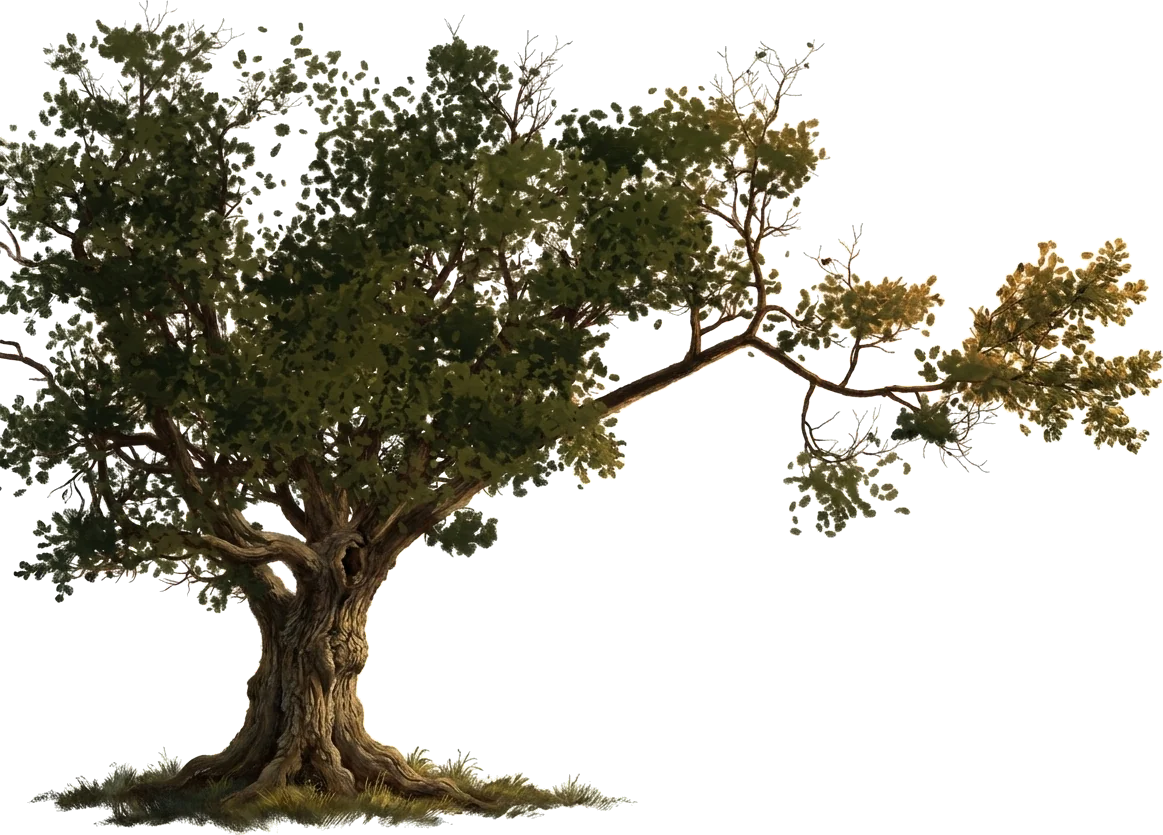
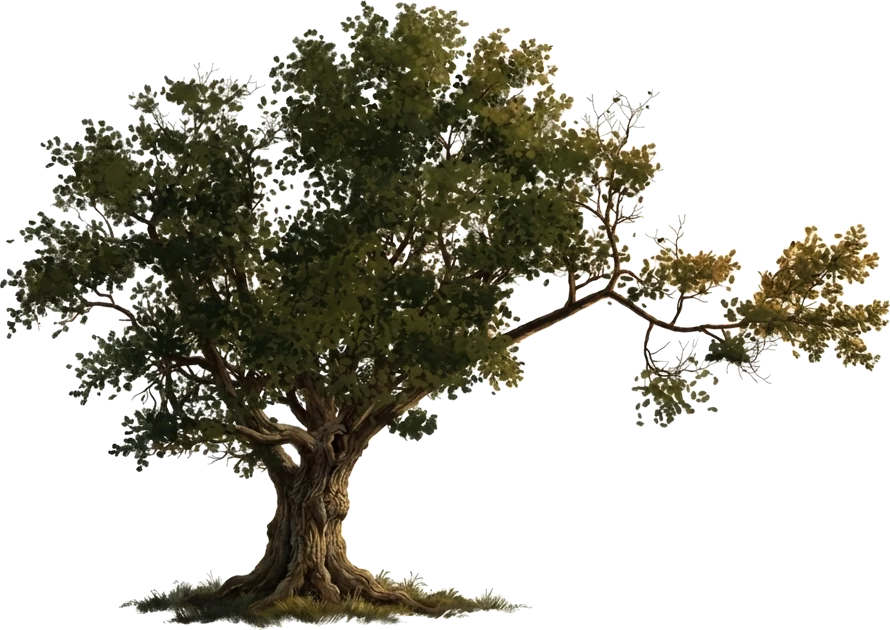
Level 3's oak painted whole and toned toward a silhouette (build 165)
Claude-Session: https://claude.ai/code/session_017HrTSF6HHp7YV8LH8vZT5B

diff --git a/hill.js b/hill.js
@@ -169,16 +169,17 @@ const HL = (() => {
   // trunk's middle, ground = the row that stands on the field's edge (the grass at its foot goes a little below, behind
   // the road), tw = sunlit leaves that twinkle. It is toned a little darker here to sit in the game's quiet tones,
   // and has an all-dark copy for when the sky darkens. Until it has loaded, the code-drawn oak (bakeOak) stands in.
-  const OAK_META = { w: 1163, h: 835, ax: 304.0, ground: 800, k: .56, tw: [[1083,304],[1114,421],[1016,272],[677,301],[1047,398],[1058,259],[600,443],[1073,346],[837,293],[737,302],[1082,331],[1021,313],[1121,411],[1001,363],[944,397],[1144,283],[884,291],[1044,244],[968,340],[715,360],[767,135],[1139,282],[1090,338],[1092,311],[316,73],[1113,286],[1119,412],[1112,278],[888,286],[1130,286],[921,291],[925,397],[1044,368],[783,171],[1111,306],[828,277],[1115,429],[1026,406],[813,125],[1087,276],[603,445],[1073,288],[654,196],[1056,362],[1113,421],[915,320],[844,322],[916,322],[753,332],[907,300],[612,453],[969,340],[996,294],[1106,251],[925,331],[579,455],[1085,257],[979,312],[1108,288],[783,140],[1122,438],[963,400],[943,392],[1055,270],[921,399],[584,479],[934,280],[1125,266],[920,316],[1053,363],[1088,396],[1040,261],[827,279],[956,354],[865,283],[512,194],[608,466],[854,304],[1054,405],[909,307],[1068,278],[888,327],[1013,395],[1044,248],[1113,420],[1041,252],[724,158],[454,372],[1004,405],[1077,270],[933,315],[1112,297],[1050,256],[1023,334],[1090,264],[1063,341],[1032,396],[1067,336],[1024,314],[1069,273],[701,213],[584,207],[1146,373],[1047,248],[614,311],[817,134],[684,111],[1103,309],[1094,268],[542,266],[822,152],[1103,303],[969,362],[1040,248],[1026,362],[1073,357],[1111,314],[1115,290],[990,348],[1119,240],[851,331],[1058,278],[611,453],[1096,372],[982,356],[587,449],[725,309],[885,285],[1112,428],[883,282],[1064,356],[557,153],[1092,390],[529,196],[724,259],[923,332],[726,306],[976,336],[508,245],[242,231],[1109,363],[750,157],[967,388],[846,319],[909,322],[661,116],[912,317],[628,403],[881,307],[1118,239],[515,275],[1095,428],[632,401],[1082,348],[885,325],[917,306],[748,121],[468,499],[886,326],[932,276],[1020,411],[147,166],[854,290],[821,155],[894,306],[453,195],[759,107],[891,319],[1097,260],[795,147],[754,331],[1137,303],[731,351],[1042,261],[878,286],[828,334],[1131,357],[736,119],[967,341],[723,278],[886,302],[869,291],[796,146],[1049,258],[821,290],[1065,425],[1017,288],[1097,279],[1148,378],[653,290],[965,355],[463,498],[1112,257],[1050,388],[1116,289],[1026,363],[1093,404],[1156,354],[725,259],[1041,249],[1109,277],[1105,300],[762,134],[917,300],[1009,392],[1053,346],[1080,322],[1114,319],[805,293],[820,313],[494,249],[1120,414],[1088,369],[913,294],[980,353],[764,352],[1138,378],[1078,340],[1079,358],[786,129],[876,332],[786,142],[1076,394],[583,436],[1157,384],[891,297],[1020,306],[774,131],[896,285],[995,359],[1136,288],[520,236],[770,346],[1156,365],[1101,397],[1111,292],[1106,316],[607,456],[737,347],[680,90],[853,457],[883,281],[770,137],[1105,252],[1113,310],[1059,271],[1141,438],[910,318],[616,411],[976,314],[604,450],[871,294],[751,114],[902,296],[885,291],[753,120],[1026,432],[541,219],[1113,371],[802,123],[860,475],[1113,272],[607,458],[1063,270],[1122,440],[890,283],[1123,374],[885,284],[1115,320],[1082,277],[806,147],[969,350],[968,361],[1102,320],[710,124],[1120,309],[596,430],[737,128],[1082,325],[728,262],[478,281],[480,233],[608,458],[877,327],[578,451],[1131,432],[583,374],[969,388],[924,294],[723,293],[996,360],[991,399],[1064,357],[595,428],[1120,256],[1117,290],[877,331],[999,352],[621,467],[931,316],[890,286],[888,499],[586,363],[1042,335],[685,178],[1058,269],[572,251],[887,291],[1014,280],[1069,402],[663,270],[574,437],[683,95],[783,175],[1114,254],[729,122],[821,150],[1122,357],[965,350],[1016,360]] };
+  const OAK_META = { w: 890, h: 630, ax: 306.5, ground: 602, k: 0.781, tw: [[787,253],[480,364],[694,265],[852,350],[568,103],[862,274],[687,256],[839,333],[552,186],[441,78],[565,95],[808,234],[608,265],[648,156],[864,274],[858,345],[498,332],[434,23],[542,71],[522,107],[548,142],[795,261],[794,258],[562,134],[835,287],[855,251],[853,257],[794,278],[836,236],[439,11],[869,256],[884,303],[543,78],[724,272],[836,235],[799,242],[555,113],[554,107],[527,49],[788,308],[544,145],[859,260],[722,278],[548,49],[665,255],[492,370],[449,32],[562,95],[696,259],[537,112],[449,53],[679,288],[835,235],[826,324],[723,267],[506,356],[830,298],[447,59],[801,316],[854,256],[855,260],[833,297],[718,258],[806,288],[875,306],[727,335],[546,81],[854,340],[789,250],[854,312],[501,47],[654,145],[793,252],[549,142],[664,251],[613,284],[397,27],[814,328],[633,158],[570,101],[538,95],[867,265],[879,329],[731,252],[683,262],[603,259],[599,158],[682,252],[785,307],[536,59],[839,249],[537,53],[827,332],[720,259],[496,34],[437,274],[551,91],[632,150],[461,25],[825,308],[694,266],[872,258],[725,265],[873,311],[704,370],[579,201],[866,327],[504,354],[646,313],[717,279],[494,386],[811,229],[508,50],[540,49],[518,99],[857,247],[831,334],[446,80],[815,228],[253,265],[536,112],[547,48],[806,340],[504,94],[688,290],[862,311],[447,225],[489,334],[860,342],[877,358],[855,311],[782,336],[442,75],[853,309],[533,77],[498,389],[854,341],[496,389],[787,309],[503,44],[539,99],[803,310],[670,276],[780,267],[672,262],[861,228],[539,92],[851,267],[542,48],[804,244],[724,264],[551,72],[791,247],[851,261],[861,280],[553,124],[652,176],[884,321],[551,71],[715,274],[510,381],[542,125],[840,330],[817,341],[788,283],[507,362],[372,41],[784,308],[519,53],[813,312],[729,258],[873,263],[593,133],[821,239],[771,278],[666,265],[497,49],[866,244],[818,245],[856,342],[479,44],[663,251],[697,256],[815,235],[525,106],[440,78],[507,29],[556,125],[462,39],[855,231],[550,129],[539,63],[783,339],[541,62],[841,294],[671,281],[577,186],[705,373],[773,279],[858,261],[840,285],[511,120],[538,77],[543,46],[798,253],[504,51],[824,339],[261,299],[413,263],[858,313],[860,226],[794,260],[758,298],[462,24],[616,145],[517,365],[648,266],[873,318],[496,35],[432,8],[588,174],[859,225],[864,235],[568,105],[514,110],[790,266],[834,296],[543,122],[563,137],[560,114],[856,259],[541,191],[719,257],[662,252],[519,98],[840,245],[527,67],[797,247],[704,284],[495,380],[787,314],[432,50],[759,299],[796,247],[568,104],[556,68],[692,286],[560,97],[515,121],[864,262],[843,336],[862,347],[827,328],[589,136],[434,68],[589,304],[848,278],[840,290],[651,169],[853,310],[761,332],[442,13],[881,311],[703,282],[627,152],[520,107],[446,78],[598,210],[858,262],[756,305],[862,319],[847,334],[430,19],[514,378],[568,133],[855,258],[495,45],[513,108],[559,108],[730,267],[858,307],[702,267],[461,40],[516,365],[876,328],[762,278],[548,96],[858,280],[629,156],[440,272],[794,274],[836,289],[436,80],[514,377],[659,273],[542,78],[601,157],[457,31],[789,251],[861,272]] };
+  // OAK_SIL: how far the painting is pulled toward one dark tone (owner, build 165: "Tone it down to slightly more silhouette"): 0 = the painting, 1 = a flat silhouette
+  const OAK_SIL = .42;
   let OAKP = null, oakLoading = null;
   function loadOak() {
     if (!oakLoading) oakLoading = loadImg('oak-leaf.webp').then(im => { if (!im) return;
-      // (the painting ran off its paper on the left: that cut edge is melted away; the pale grass at its foot is toned to the field)
+      // (the pale grass at its foot is toned to the field)
       const mkc = fill => { const c = mk(im.width, im.height), k = c.getContext('2d'); k.drawImage(im, 0, 0);
         k.globalCompositeOperation = 'source-atop'; { const g = k.createLinearGradient(0, im.height - 90, 0, im.height); g.addColorStop(0, 'rgba(58,62,40,0)'); g.addColorStop(.5, 'rgba(58,62,40,.7)'); g.addColorStop(1, 'rgba(50,54,36,.9)'); k.fillStyle = g; k.fillRect(0, im.height - 90, im.width, 90); }
-        k.globalCompositeOperation = 'destination-out'; { const g = k.createLinearGradient(0, 0, 90, 0); g.addColorStop(0, 'rgba(0,0,0,1)'); g.addColorStop(1, 'rgba(0,0,0,0)'); k.fillStyle = g; k.fillRect(0, 0, 90, im.height * .8); }
         k.globalCompositeOperation = 'source-over'; fill(k); return c; };
-      OAKP = { c: mkc(k => { const keep = mk(im.width, im.height); keep.getContext('2d').drawImage(k.canvas, 0, 0); k.globalCompositeOperation = 'multiply'; k.fillStyle = 'rgb(188,180,170)'; k.fillRect(0, 0, im.width, im.height); k.globalCompositeOperation = 'destination-in'; k.drawImage(keep, 0, 0); }),
+      OAKP = { c: mkc(k => { const keep = mk(im.width, im.height); keep.getContext('2d').drawImage(k.canvas, 0, 0); k.globalCompositeOperation = 'multiply'; k.fillStyle = 'rgb(172,166,156)'; k.fillRect(0, 0, im.width, im.height); k.globalCompositeOperation = 'source-over'; k.globalAlpha = OAK_SIL; k.fillStyle = 'rgb(30,34,29)'; k.fillRect(0, 0, im.width, im.height); k.globalAlpha = 1; k.globalCompositeOperation = 'destination-in'; k.drawImage(keep, 0, 0); }),
                d: mkc(k => { k.globalCompositeOperation = 'source-in'; k.fillStyle = 'rgb(20,20,26)'; k.fillRect(0, 0, im.width, im.height); }) }; }).catch(() => {});
     return oakLoading;
   }

diff --git a/index.html b/index.html
@@ -83,7 +83,7 @@ body.portrait #rot{display:block}
     <button class="btn" id="again">Walk again</button>
   </div>
   <button id="snd" aria-label="Sound on or off">♪</button>
-  <div id="build">build 164 · Nov 16 2026</div>
+  <div id="build">build 165 · Nov 16 2026</div>
 </div></div>
 <div id="rot">Turn your phone sideways for a bigger picture</div>
 <script>
@@ -1074,7 +1074,7 @@ const runNow = () => G.ears || !RUNP.ready ? [RUN, RUN_META] : [RUNP, RUNP_META]
 function coverEars() { if (G.ears) return; if (P.run) poseChange(8, true); G.ears = true; }
 const CHR = [], PLI = [], OBS = [], EVA = [], STD = [], RUN = [], CHR_K = .52, RUN_STEP = RUN_META.vpx * CHR_K, RUNV = RUN_STEP * .4,   // the run at its video's own speed (24 frames a second)
    CHR_STEP = CHR_META.vpx * CHR_K, PLI_STEP = PLI_META.vpx * CHR_K, OBS_STEP = OBS_META.vpx * CHR_K;
-const PACK_V = 23;                          // bump when the .pack files change, so phones fetch the new ones
+const PACK_V = 24;                          // bump when the .pack files change, so phones fetch the new ones
 // a .pack file: 4 bytes = how many frames, 4 bytes per frame = its length, then the WebP frames end to end
 async function loadPack(name, into) {
   const res = await fetch('assets/' + name + '.pack?v=' + PACK_V); if (!res.ok) throw new Error('no ' + name);      // a missing pack is left out
@@ -2255,6 +2255,6 @@ document.getElementById('on2').onclick = () => SL.on ? go3() : go2();
 })();
 </script>
 <script src="slough.js?v=164"></script>
-<script src="hill.js?v=164"></script>
+<script src="hill.js?v=165"></script>
 </body>
 </html>

diff --git a/story-lab.html b/story-lab.html
@@ -3,4 +3,4 @@
 <title>Pilgrim's Progress</title>
 <!-- The game moved to the main page in build 119. This page only sends old links (and Home Screen icons) on to it. -->
 <script>location.replace('./' + location.search + location.hash);</script>
-<p><a href="./">Pilgrim's Progress</a> <span id="build">build 164 · Nov 16 2026</span></p>
+<p><a href="./">Pilgrim's Progress</a> <span id="build">build 165 · Nov 16 2026</span></p>

diff --git a/CLAUDE.md b/CLAUDE.md
@@ -32,7 +32,7 @@ A gentle side-scrolling story walk for kids ages 7 to 10, following Bunyan's *Th
 ## Working with the owner
 
 - **Repo `Twhidbey/pilgrims-progress`, branch `main`. Pushing `main` publishes the game** (GitHub Pages, https://twhidbey.github.io/pilgrims-progress/, 1 to 2 minutes). Commit and push after every change, then tell the owner it is live; a phone may show an old copy, so suggest `?v=N`.
-- **Build stamp** (`id="build"`, bottom right): `build N · date` in `index.html` and `story-lab.html`. Bump N on **every** push that changes the game, so one number means one push. Keep the form `id="build">... build N` (the page's self-update reads it). **Currently build 164.** The two script tags at the end of `index.html` carry `?v=N` (`slough.js?v=`, `hill.js?v=`): set them to the build that last changed each file, so phones fetch the new copy. Several chats push at once: `git fetch` and rebase on `origin/main` just before pushing, and take the next number after whatever is there.
+- **Build stamp** (`id="build"`, bottom right): `build N · date` in `index.html` and `story-lab.html`. Bump N on **every** push that changes the game, so one number means one push. Keep the form `id="build">... build N` (the page's self-update reads it). **Currently build 165.** The two script tags at the end of `index.html` carry `?v=N` (`slough.js?v=`, `hill.js?v=`): set them to the build that last changed each file, so phones fetch the new copy. Several chats push at once: `git fetch` and rebase on `origin/main` just before pushing, and take the next number after whatever is there.
 - **SPEND AS LITTLE AS POSSIBLE (owner, build 106: "can you minimize spending - it's been pretty expensive for me last few days").** Video about 56 cents a try; a picture about 15 cents (`gemini-3-pro-image`); voice about a cent a line. **Before any paid call: say the cost and wait for a yes; keep the running total in `HANDOFF.md`.** Ways to save, in order: (1) do it in code first (breathing, sway, cloth and hair movement, small moves by warping a still, mirroring, tinting, reusing a figure); (2) build first and last frames from frames we already have; (3) draft pictures on `gemini-2.5-flash-image` (about a third of the price), the pro model only for the final; (4) show the owner a still before any video; (5) get two clips from one video (play backwards or back and forth); (6) write video prompts that pass the safety filter first time (no "sunk", "drowning", "thrashing", "desperate", "frightened"; say "thick sticky mud", "heaves", "cross and grumbling"); (7) a shorter video if the API offers one cheaper (not yet checked).
 - **Keep `CLAUDE.md` and `HANDOFF.md` updated after every change.** The repo is public: no names, emails or other personal details in notes, code or commits.
 - **Players:** kids 7 to 10, mostly on an iPhone. Gentle: no lives, no game over, read-aloud words, short simple sentences.
@@ -161,7 +161,7 @@ Plus a syntax check of `index.html`'s script, `slough.js` and `hill.js` (`new Fu
 
 **The wicket-gate, after Rembrandt (build 142).** Owner on build 139: "I like light on gate - bricks not doing it for me - something about the light - door: not a fan - mountains ... their elevation compared to wall is distracting - need artistic analysis especially regarding composition - think Rembrandt". What was wrong and what is kept now: (1) three lights fought (far light, lantern, door): ONE at a time: a small lantern until the door opens, then the light from within, which is the far light he has followed (behind the wall it only glows over the top; no disc in the sky); (2) a low wall with the ridge just above it made two level lines: the wall is high and runs out of the picture both ways; (3) bricks, or stones each lit as a tile: the light is ONE soft pool on a rough surface, the big stones (`STONES`) only faint differences in it with dark joints; (4) the door is planks, iron straps and a ring in a deep arch, and opens only a hand's breadth on a soft-edged light; (5) the gate stands in the right third; lantern, face and doorstep make one slanting line. Evening has come ("in process of time": **a departure, the book gives no time of day**). **Rules for any lit scene: one light at a time; light is a soft pool on a surface, never a pattern of lit tiles; never stack two level lines; let most of the picture be dark.** Not yet seen by the owner.
 
-**The opening (build 158; owner: "the tree at beginning needs redo - the color scheme too - like the green but we need beautiful and intriguing entry - think about the artist we are using - maybe a generated tree like slough but with leaves"; my proposal, agreed: "Let's go"):** John Martin's quiet side (*The Plains of Heaven*) before his terrible side: late golden afternoon (a sky from soft gold to a quiet blue-green, the field green-gold, the far hill pale violet-grey and harmless, a pale thread of smoke over it), and **a great oak in leaf where the ways cross**, grown by the Slough's own tree code with another seed (`SL.grow(27)`, `SL.ribbons`: exports added to `slough.js`, keep them; `bakeOak()`, `OAKL`): kin to the bare black oak of Level 2, but alive. **The owner on build 158's crown of big dabs in three greens: "That's an awful tree" (a cartoon). Build 160: ONE dark tone, as everywhere in the game: the oak is a silhouette like the Slough's, its leaves only a fine broken edge of small dabs in the same tone with sky showing through the crown, the low sun touching the far edge very faintly; the field and far hill were quietened too. Never paint a tree in several bright greens.** **Build 162 (owner, of the one-tone tree: "Tree bigger, leaves slightly sparser more varied, sunlight twinkling in leaves, think classic artistic rendering of tree from master painters - also color palette for opening scene can be tweaked to be more beautiful"):** the crown is painted as Claude Lorrain, Constable and Corot painted trees: many separate feathery pads at the ends of the boughs, each a cloud of small touches, sky between them and the limbs seen through; each pad dark beneath and a little lighter toward the low sun; pads differ in size and depth of tone; all close dark olives (still never bright green); a few hundred sunlit touches twinkle, each in its own time (`OAKL.tw`). The tree is bigger (`.88`). The palette is Claude's evening: gold at the horizon, peach above, a soft blue high up; a blue distance (ridge and far hill); a warm olive field. **THE PAINTED OAK (build 163; owner: "Getting better maybe adjust how trunk interacts with ground to be more realistic - more detail on trunk - can we have google image have a go at it?"):** one picture from the image model (about 15 cents, right first time), given a still of the code-drawn oak as its shape and asked for Claude Lorrain / Constable / Corot: a gnarled trunk with a hollow, roots spreading into rough grass, the long limb reaching right, feathery pads of leaves in dark olives. `assets/oak-leaf.webp` (cut from its white paper by distance from white, the paper's white taken out of the edge pixels), `OAK_META` (`ax`, `ground`, `k`, `tw` = sunlit leaves that twinkle), `loadOak()`, `OAKP`; toned a little darker in the game; the code-drawn oak (`bakeOak`) stands in until it loads. a flat shade under it; a few leaves drifting down; an all-dark copy laid over it as the sky darkens. Its long limb reaches over the place where the two meet. Not yet seen by the owner.
+**The opening (build 158; owner: "the tree at beginning needs redo - the color scheme too - like the green but we need beautiful and intriguing entry - think about the artist we are using - maybe a generated tree like slough but with leaves"; my proposal, agreed: "Let's go"):** John Martin's quiet side (*The Plains of Heaven*) before his terrible side: late golden afternoon (a sky from soft gold to a quiet blue-green, the field green-gold, the far hill pale violet-grey and harmless, a pale thread of smoke over it), and **a great oak in leaf where the ways cross**, grown by the Slough's own tree code with another seed (`SL.grow(27)`, `SL.ribbons`: exports added to `slough.js`, keep them; `bakeOak()`, `OAKL`): kin to the bare black oak of Level 2, but alive. **The owner on build 158's crown of big dabs in three greens: "That's an awful tree" (a cartoon). Build 160: ONE dark tone, as everywhere in the game: the oak is a silhouette like the Slough's, its leaves only a fine broken edge of small dabs in the same tone with sky showing through the crown, the low sun touching the far edge very faintly; the field and far hill were quietened too. Never paint a tree in several bright greens.** **Build 162 (owner, of the one-tone tree: "Tree bigger, leaves slightly sparser more varied, sunlight twinkling in leaves, think classic artistic rendering of tree from master painters - also color palette for opening scene can be tweaked to be more beautiful"):** the crown is painted as Claude Lorrain, Constable and Corot painted trees: many separate feathery pads at the ends of the boughs, each a cloud of small touches, sky between them and the limbs seen through; each pad dark beneath and a little lighter toward the low sun; pads differ in size and depth of tone; all close dark olives (still never bright green); a few hundred sunlit touches twinkle, each in its own time (`OAKL.tw`). The tree is bigger (`.88`). The palette is Claude's evening: gold at the horizon, peach above, a soft blue high up; a blue distance (ridge and far hill); a warm olive field. **THE PAINTED OAK (build 163; owner: "Getting better maybe adjust how trunk interacts with ground to be more realistic - more detail on trunk - can we have google image have a go at it?"):** one picture from the image model (about 15 cents, right first time), given a still of the code-drawn oak as its shape and asked for Claude Lorrain / Constable / Corot: a gnarled trunk with a hollow, roots spreading into rough grass, the long limb reaching right, feathery pads of leaves in dark olives. `assets/oak-leaf.webp` (cut from its white paper by distance from white, the paper's white taken out of the edge pixels), `OAK_META` (`ax`, `ground`, `k`, `tw` = sunlit leaves that twinkle), `loadOak()`, `OAKP`; toned a little darker in the game; the code-drawn oak (`bakeOak`) stands in until it loads. **Build 165 (owner: "Tone it down to slightly more silhouette, rerun to get whole tree"):** a second picture (about 15 cents, right first time) given the first and asked for the same tree whole, with white margin on all four sides (the first ran off its paper on the left); and the painting is pulled part of the way toward one dark tone (`OAK_SIL` .42: 0 = the painting, 1 = a flat silhouette), so the trunk's character and the leaf pads still read but it sits with the game's quiet shapes. a flat shade under it; a few leaves drifting down; an all-dark copy laid over it as the sky darkens. Its long limb reaches over the place where the two meet. Not yet seen by the owner.
 
 **How it goes (`{37}` to `{60}`):** alone on the plain; he sees one far off (`SEEN`) → Wiseman walks in and they meet at the lone oak where the ways cross (`MEET`), the talk (`WISE`) → "Do you see that hill?" (act `'hill'`): the camera draws far back, the child touches the hill → he turns out of his way (`aside`): the sky darkens, the far light slips behind the hill, a bent, low tune (`WRONG`), holding moves him less and less → he stands still under the overhang (`still` at `STILL`); fire and thunder (`fire()`); he sweats and shakes → Evangelist comes (`come`; he has no walk, so he appears out of smoke) → the talk (`EVANW`): Christian falls at his feet (the weeping video) and is raised → back with haste: holding runs him back to the crossing (`back`, his plain run) → a veil of mist ("in process of time", `mist`, automatic) → the wall and the little wicket-gate under the far light (`gate`) → act `'knock'`: the child knocks three times on the gate → Good-will comes; the door opens a hand's breadth of light → end card "At the gate" (Level 4 begins with Good-will).
 

diff --git a/HANDOFF.md b/HANDOFF.md
@@ -26,7 +26,7 @@ Older handovers (builds 41 to 137, with the picture and video prompts used for H
 
 **Build 144: the title page is sized by the picture, so it fits an iPhone held upright (`CLAUDE.md`, Phones). Nothing spent.**
 
-**Spending since build 106 (the owner asked to keep it low): about $4.81.** Build 164: the shorter script recorded (32 reworded and missing Level 3 lines, with retakes, about 45 cents). The painted oak for Level 3's opening (one picture, about 15 cents, the owner asked for it; right first time). Build 156: Evangelist's walk video (about 56 cents, right first time) and two picture tries at levelling his feet (about 19 cents, both failed; done in code instead). A second reference study, of distant fire and smoke (about 15 cents, the owner said yes; shown to the owner, not in the repo; its lessons are in `CLAUDE.md`, Level 3). One reference painting of the burning hill for the fire's design (about 15 cents, the owner said yes; shown to the owner, not in the game or the repo; what it teaches is in `CLAUDE.md`, Level 3). Build 143 (the owner said yes to Level 3's small costs): Wiseman's voice designed and 37 lines recorded (about 40 cents), three pictures of Wiseman (one cheap draft and two on the pro model, about 35 cents). Build 149: Wiseman's walk video (about 56 cents, right first time). Build 143 (the owner said yes to Level 3's small costs): Wiseman's voice designed and 37 lines recorded (about 40 cents), three pictures of Wiseman (one cheap draft and two on the pro model, about 35 cents).
+**Spending since build 106 (the owner asked to keep it low): about $4.96.** The oak painted again, whole (about 15 cents, the owner asked). Build 164: the shorter script recorded (32 reworded and missing Level 3 lines, with retakes, about 45 cents). The painted oak for Level 3's opening (one picture, about 15 cents, the owner asked for it; right first time). Build 156: Evangelist's walk video (about 56 cents, right first time) and two picture tries at levelling his feet (about 19 cents, both failed; done in code instead). A second reference study, of distant fire and smoke (about 15 cents, the owner said yes; shown to the owner, not in the repo; its lessons are in `CLAUDE.md`, Level 3). One reference painting of the burning hill for the fire's design (about 15 cents, the owner said yes; shown to the owner, not in the game or the repo; what it teaches is in `CLAUDE.md`, Level 3). Build 143 (the owner said yes to Level 3's small costs): Wiseman's voice designed and 37 lines recorded (about 40 cents), three pictures of Wiseman (one cheap draft and two on the pro model, about 35 cents). Build 149: Wiseman's walk video (about 56 cents, right first time). Build 143 (the owner said yes to Level 3's small costs): Wiseman's voice designed and 37 lines recorded (about 40 cents), three pictures of Wiseman (one cheap draft and two on the pro model, about 35 cents).
 
 **Build 143, Level 3's paid parts:** the owner: "Level 3 let's do it all except big costs - maybe make some art requests with google image but check with me before the big video request". Wiseman's voice was designed from: "A prosperous, smooth-spoken English gentleman in his fifties. A rich, warm, confident voice of middle pitch, polished and persuasive, friendly on the surface and a little condescending, like a man used to being listened to and sure he knows best. Unhurried and well-spoken, with a plain educated English accent. Pleasant, never villainous or sinister." **16 lines are still to record** (Google's limit of 100 requests a day): run `python3 tools/make-voice.py` again. Wiseman's painting: `gemini-3-pro-image`, references Obstinate's and Pliable's standing pictures, prompt: the same loose grey watercolour; a well-to-do gentleman in his fifties, comfortably stout, strict side-on profile facing left, one gloved hand on a cane, the other open in easy advice, no burden, no mud; a long full cloak of fine wool with a deep soft fur collar over a long smooth coat tied with a broad smooth cloth sash (not a rope), fine leggings, tall polished riding boots, a broad-brimmed hat with a round crown; nothing ragged, no lace, ruffs, buckles, buttons, jewellery; a plain wash face (it still drew a faint eye, softened in code). The first pro try made him look poor (rope belt, wrapped legs): say "expensive and well kept". The picture is not in the repo until the owner likes it. **Next, after the owner's yes:** cut it out (`tools/cutout.py`), a walk video from it (about 56 cents), Evangelist's walk (about 56 cents). Say the cost and wait for a yes before every paid call.
 
